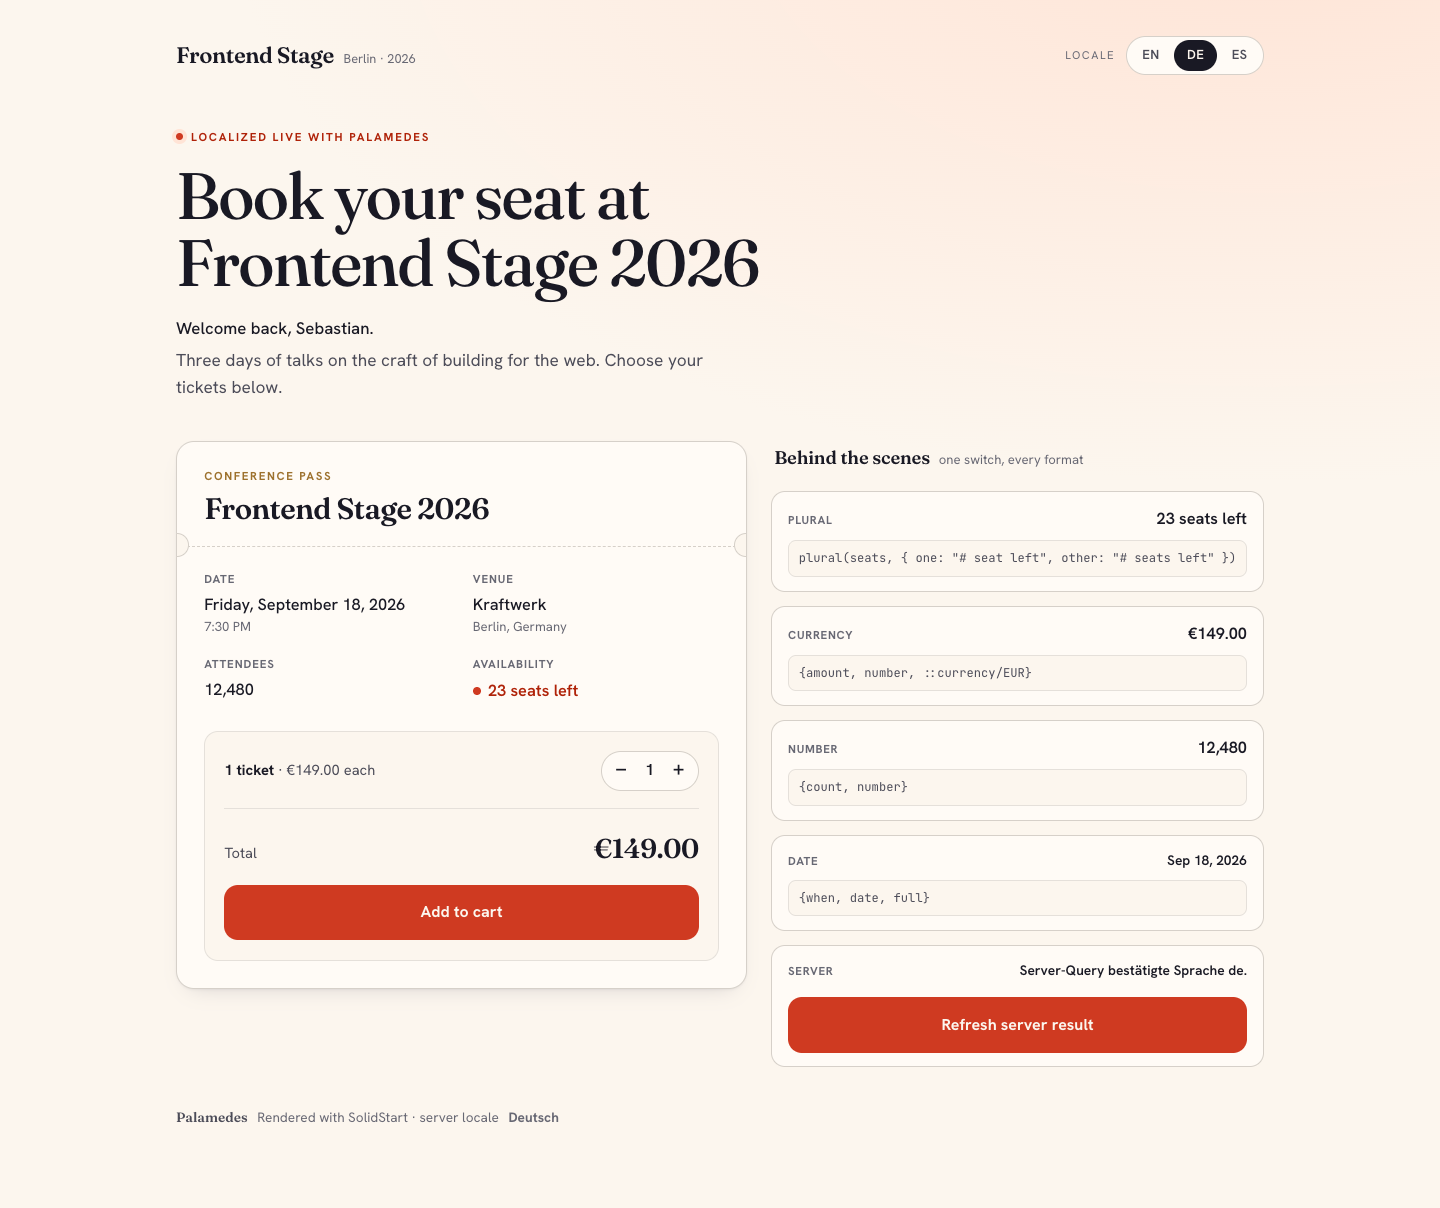
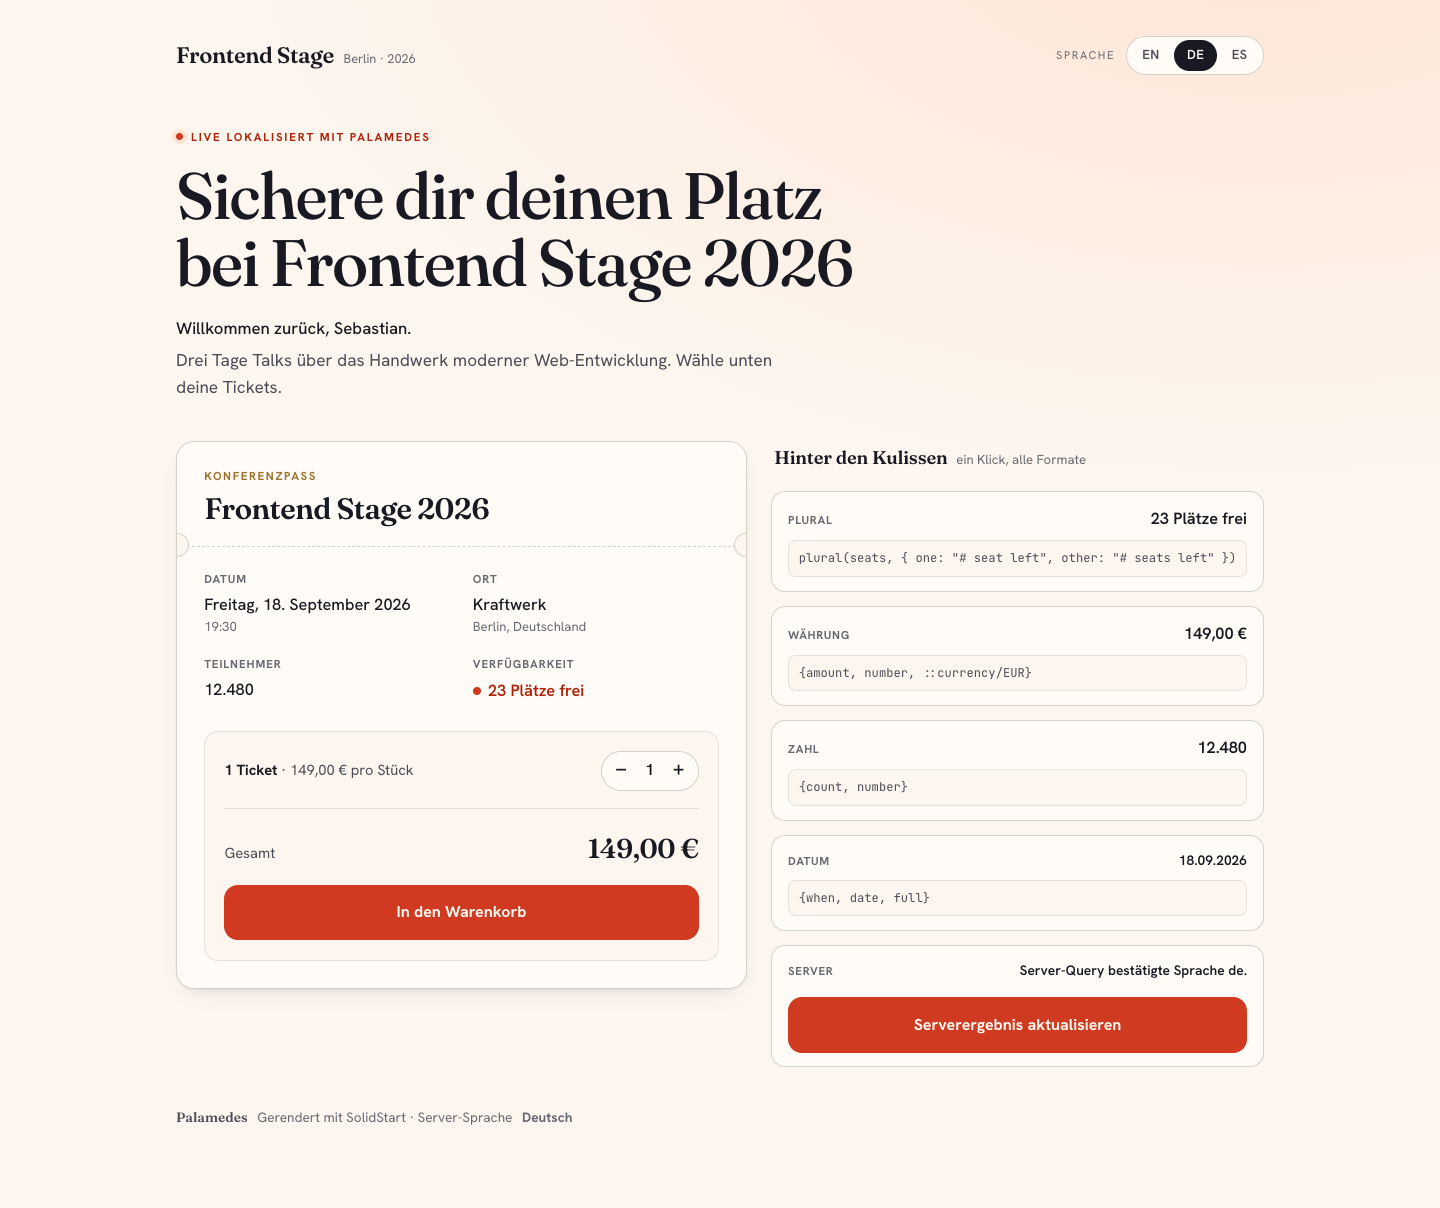
fix(solid): make Trans and t/plural follow client-side locale switches
Solid components run once, so <Trans> read the active i18n non-reactively
and stale after a client-side locale switch (server data switched, translated
content did not). Bridge the framework-agnostic client runtime into Solid:

- runtime: add subscribeClientI18n(); setClientI18n() notifies listeners,
  including in-place re-activation of the same instance
- solid: new @user/solid/runtime exporting a reactive getI18n() backed by
  a Solid signal fed from that subscription; Trans/Plural/Select/SelectOrdinal
  now return accessors so Solid tracks them
- solidstart-route: point the macro transform at the reactive runtime so
  t/plural output follows the switch too
- solidstart-route: fix stale catalog ids for plural(quantity(), ...) — a call
  arg names the ICU variable "value", not "quantity"; align en/de/es .po
- regenerate solidstart-route screenshots (interactive is now fully localized)

diff --git a/packages/solid/src/index.tsx b/packages/solid/src/index.tsx
@@ -7,7 +7,22 @@ import type {
   MessageNode,
   PalamedesI18n,
 } from "@palamedes/core"
-import { getI18n } from "@palamedes/runtime"
+
+import { getI18n } from "./runtime"
+
+export {
+  buildLocaleSwitchItems,
+  type BuildLocaleSwitchItemsOptions,
+  type LocaleSwitchItem,
+} from "@palamedes/core/locale"
+
+// Read the active i18n while registering the enclosing Solid computation as a
+// subscriber, so it re-runs when the client locale changes. The components below
+// return accessors (plain functions), which Solid tracks — that is where this
+// read is picked up.
+function useReactiveI18n(): PalamedesI18n {
+  return getI18n<PalamedesI18n>()
+}
 
 type WrapperComponent = (children: JSX.Element) => JSX.Element
 
@@ -40,20 +55,6 @@ export type SelectProps = {
   [key: string]: string | number | undefined
 }
 
-export type LocaleSwitchItem<TLocale extends string = string> = {
-  active: boolean
-  label: string
-  locale: TLocale
-  testId: string
-}
-
-export type BuildLocaleSwitchItemsOptions<TLocale extends string> = {
-  currentLocale: TLocale
-  labels?: Partial<Record<TLocale, string>>
-  locales: readonly TLocale[]
-  testIdPrefix?: string
-}
-
 export function Trans({
   id,
   message,
@@ -62,59 +63,42 @@ export function Trans({
   context,
   comment,
 }: TransProps): JSX.Element {
-  const i18n = getI18n<PalamedesI18n>()
   const resolvedId = id ?? message ?? ""
-  const pattern = i18n.getMessage(resolvedId, {
-    id: resolvedId,
-    message,
-    context,
-    comment,
-  })
 
-  return renderNodes(
-    parseMessagePattern(pattern),
-    values ?? {},
-    components ?? {},
-    i18n.locale
-  ) as unknown as JSX.Element
+  // Returning an accessor (a plain function) makes Solid track it: it re-runs on
+  // a client locale switch, so the rendered nodes follow the active i18n.
+  return (() => {
+    const i18n = useReactiveI18n()
+    const pattern = i18n.getMessage(resolvedId, {
+      id: resolvedId,
+      message,
+      context,
+      comment,
+    })
+
+    return renderNodes(parseMessagePattern(pattern), values ?? {}, components ?? {}, i18n.locale)
+  }) as unknown as JSX.Element
 }
 
 export function Plural({ value, ...choices }: PluralProps): JSX.Element {
-  const i18n = getI18n<PalamedesI18n>()
-  return i18n._(
-    { message: buildChoiceMessage("value", "plural", choices) },
-    { value }
-  ) as JSX.Element
+  return (() => {
+    const i18n = useReactiveI18n()
+    return i18n._({ message: buildChoiceMessage("value", "plural", choices) }, { value })
+  }) as unknown as JSX.Element
 }
 
 export function SelectOrdinal({ value, ...choices }: SelectOrdinalProps): JSX.Element {
-  const i18n = getI18n<PalamedesI18n>()
-  return i18n._(
-    { message: buildChoiceMessage("value", "selectordinal", choices) },
-    { value }
-  ) as JSX.Element
+  return (() => {
+    const i18n = useReactiveI18n()
+    return i18n._({ message: buildChoiceMessage("value", "selectordinal", choices) }, { value })
+  }) as unknown as JSX.Element
 }
 
 export function Select({ value, ...choices }: SelectProps): JSX.Element {
-  const i18n = getI18n<PalamedesI18n>()
-  return i18n._(
-    { message: buildChoiceMessage("value", "select", choices) },
-    { value }
-  ) as JSX.Element
-}
-
-export function buildLocaleSwitchItems<TLocale extends string>({
-  currentLocale,
-  labels,
-  locales,
-  testIdPrefix = "locale-switch",
-}: BuildLocaleSwitchItemsOptions<TLocale>): Array<LocaleSwitchItem<TLocale>> {
-  return locales.map((locale) => ({
-    active: locale === currentLocale,
-    label: labels?.[locale] ?? locale,
-    locale,
-    testId: `${testIdPrefix}-${locale}`,
-  }))
+  return (() => {
+    const i18n = useReactiveI18n()
+    return i18n._({ message: buildChoiceMessage("value", "select", choices) }, { value })
+  }) as unknown as JSX.Element
 }
 
 function buildChoiceMessage(

diff --git a/packages/solid/src/runtime.ts b/packages/solid/src/runtime.ts
@@ -1,0 +1,46 @@
+import { createSignal } from "solid-js"
+
+import type { I18nInstance } from "@palamedes/runtime"
+import { getI18n as getRuntimeI18n, subscribeClientI18n } from "@palamedes/runtime"
+
+// The active client i18n instance lives in the framework-agnostic runtime, so it
+// cannot notify Solid on its own. We bridge `setClientI18n` calls into a Solid
+// signal here: reading `trackClientI18n()` inside a reactive computation makes it
+// a dependency, and every locale switch (which re-calls `setClientI18n`) bumps
+// the signal, re-running any translation output that depends on it.
+//
+// `equals: false` is required because the client typically re-activates the same
+// i18n instance in place — only its internal locale changes — so identity-based
+// change detection would never fire.
+const [trackClientI18n, notifyClientI18n] = createSignal(undefined, { equals: false })
+
+// Subscribe lazily on first use rather than at module load: this package sets
+// `sideEffects: false`, so a top-level subscription could be dropped by a bundler
+// that considers it dead code. Registering from inside `getI18n` keeps it alive.
+let subscribed = false
+
+function ensureSubscribed(): void {
+  if (subscribed) {
+    return
+  }
+  subscribed = true
+  subscribeClientI18n(() => {
+    notifyClientI18n()
+  })
+}
+
+/**
+ * Reactive replacement for `@palamedes/runtime`'s `getI18n`.
+ *
+ * Reading this inside a Solid reactive scope (a component's returned accessor, a
+ * memo, or the thunks the macro transform emits for `t`/`plural`) subscribes that
+ * scope to client locale switches, so the output re-renders in the new locale.
+ *
+ * Wire it up by pointing the Palamedes transform at this module:
+ * `palamedes({ runtimeModule: "@palamedes/solid/runtime" })`.
+ */
+export function getI18n<T extends I18nInstance = I18nInstance>(): T {
+  ensureSubscribed()
+  trackClientI18n()
+  return getRuntimeI18n<T>()
+}

diff --git a/packages/solid/src/index.test.tsx b/packages/solid/src/index.test.tsx
@@ -1,10 +1,10 @@
 /* @jsxImportSource solid-js */
-import { createRoot, createSignal } from "solid-js"
+import { createRenderEffect, createRoot, createSignal } from "solid-js"
 import { renderToString } from "solid-js/web/dist/server.js"
 import { afterEach, describe, expect, it } from "vitest"
 
 import { createI18n } from "@palamedes/core"
-import { resetI18nRuntime, setServerI18nGetter } from "@palamedes/runtime"
+import { resetI18nRuntime, setClientI18n, setServerI18nGetter } from "@palamedes/runtime"
 
 import { Plural, Trans, buildLocaleSwitchItems } from "./index"
 import { createClientLocaleEffect } from "./client"
@@ -12,6 +12,7 @@ import { createClientLocaleEffect } from "./client"
 describe("@palamedes/solid", () => {
   afterEach(() => {
     resetI18nRuntime()
+    delete (globalThis as { window?: unknown }).window
   })
 
   it("renders Trans without a provider by reading the active runtime instance", () => {
@@ -25,6 +26,43 @@ describe("@palamedes/solid", () => {
     const html = renderToString(() => <Trans id="footer" message="Powered by Palamedes" />)
 
     expect(html).toBe("Bereitgestellt von Palamedes")
+  })
+
+  it("re-renders Trans output when the client locale switches", async () => {
+    // Pretend we are on the client so `getI18n` reads the client instance.
+    ;(globalThis as { window?: unknown }).window = {}
+
+    const i18n = createI18n()
+    i18n.load("en", { title: "Book your seat" })
+    i18n.load("de", { title: "Sichere dir deinen Platz" })
+    i18n.activate("en")
+    setClientI18n(i18n)
+
+    const outputs: string[] = []
+
+    await new Promise<void>((resolve) => {
+      createRoot((dispose) => {
+        const render = Trans({ id: "title", message: "Book your seat" }) as unknown as () => unknown
+
+        createRenderEffect(() => {
+          outputs.push([render()].flat().join(""))
+        })
+
+        // Switch outside the initial render batch so the reactive update flushes.
+        queueMicrotask(() => {
+          // A client locale switch re-activates the same instance and republishes it.
+          i18n.activate("de")
+          setClientI18n(i18n)
+
+          queueMicrotask(() => {
+            dispose()
+            resolve()
+          })
+        })
+      })
+    })
+
+    expect(outputs).toStrictEqual(["Book your seat", "Sichere dir deinen Platz"])
   })
 
   it("renders plural output through the active runtime instance", () => {

diff --git a/packages/runtime/src/index.ts b/packages/runtime/src/index.ts
@@ -10,6 +10,10 @@ const CLIENT_I18N_KEY = Symbol.for("palamedes.runtime.clientI18n")
 let clientI18n: I18nInstance | undefined
 let serverI18nGetter: ServerI18nGetter | undefined
 
+type ClientI18nListener = (i18n: I18nInstance) => void
+
+const clientI18nListeners = new Set<ClientI18nListener>()
+
 function globalClientState(): typeof globalThis & { [CLIENT_I18N_KEY]?: I18nInstance } {
   return globalThis as typeof globalThis & { [CLIENT_I18N_KEY]?: I18nInstance }
 }
@@ -21,7 +25,27 @@ function isServerEnvironment(): boolean {
 export function setClientI18n<T extends I18nInstance>(i18n: T): T {
   clientI18n = i18n
   globalClientState()[CLIENT_I18N_KEY] = i18n
+  for (const listener of clientI18nListeners) {
+    listener(i18n)
+  }
   return i18n
+}
+
+/**
+ * Subscribe to `setClientI18n` calls. Framework bindings use this to bridge the
+ * framework-agnostic client i18n into their own reactivity system (e.g. a Solid
+ * signal), so components re-render when the active locale changes on the client.
+ *
+ * The listener also fires when the same instance is re-activated in place, since
+ * `setClientI18n` is expected to be called on every locale switch.
+ *
+ * Returns an unsubscribe function.
+ */
+export function subscribeClientI18n(listener: ClientI18nListener): () => void {
+  clientI18nListeners.add(listener)
+  return () => {
+    clientI18nListeners.delete(listener)
+  }
 }
 
 export function setServerI18nGetter<T extends I18nInstance>(getter: ServerI18nGetter<T>): void {

diff --git a/packages/runtime/src/index.test.ts b/packages/runtime/src/index.test.ts
@@ -8,6 +8,7 @@ import {
   resetI18nRuntime,
   setClientI18n,
   setServerI18nGetter,
+  subscribeClientI18n,
 } from "./index"
 
 function createTestI18n(locale = "en"): I18nInstance {
@@ -38,6 +39,23 @@ describe("@palamedes/runtime", () => {
     setClientI18n(i18n)
 
     expect(getI18n()).toBe(i18n)
+  })
+
+  it("notifies subscribers on every setClientI18n call, including re-activation", () => {
+    const seen: Array<string | undefined> = []
+    const unsubscribe = subscribeClientI18n((i18n) => seen.push(i18n.locale))
+
+    const i18n = createTestI18n("en")
+    setClientI18n(i18n)
+
+    // Same instance, re-activated in place: still notifies so bindings re-render.
+    i18n.locale = "de"
+    setClientI18n(i18n)
+
+    unsubscribe()
+    setClientI18n(createTestI18n("es"))
+
+    expect(seen).toStrictEqual(["en", "de"])
   })
 
   it("resolves the request-local server instance", () => {

diff --git a/examples/solidstart-route/app.config.ts b/examples/solidstart-route/app.config.ts
@@ -3,6 +3,8 @@ import { palamedes } from "@palamedes/vite-plugin"
 
 export default defineConfig({
   vite: {
-    plugins: [palamedes()],
+    // Point the macro transform at Solid's reactive `getI18n` so `t`/`plural`
+    // output follows client-side locale switches, matching the `<Trans>` runtime.
+    plugins: [palamedes({ runtimeModule: "@palamedes/solid/runtime" })],
   },
 })